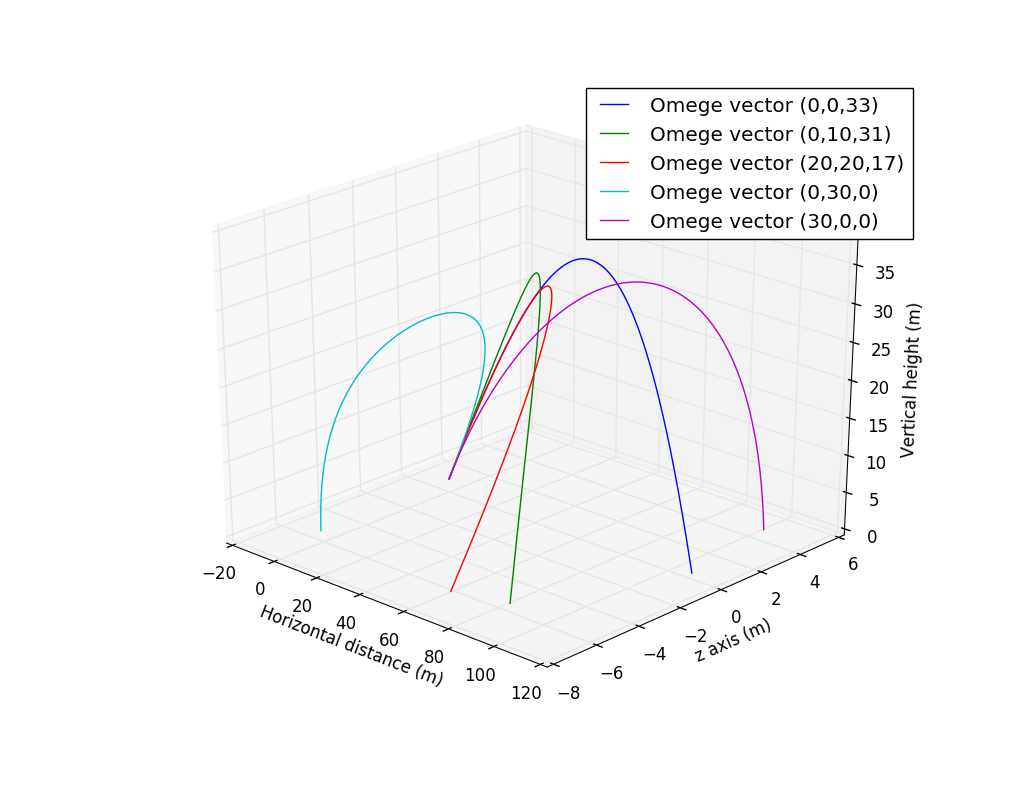
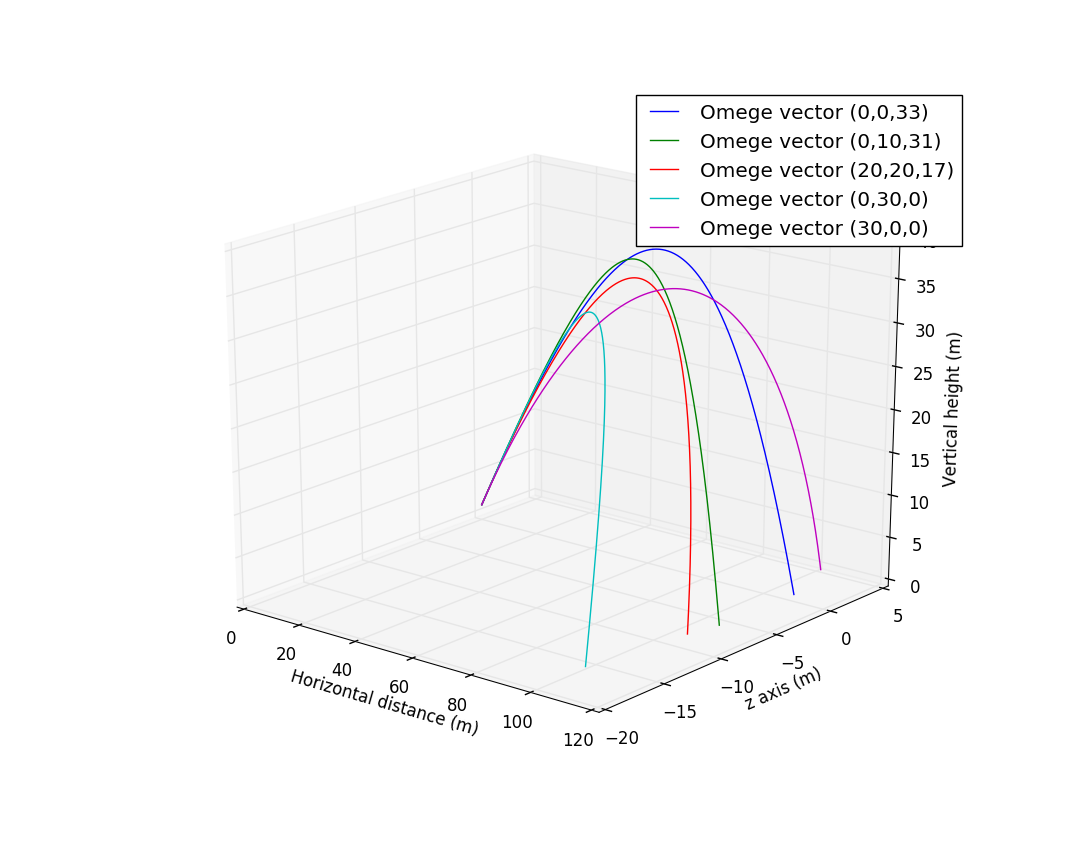
bug fix

diff --git a/Exercise/Chapter 2/chapter2_2.19.py b/Exercise/Chapter 2/chapter2_2.19.py
@@ -111,7 +111,7 @@ class baseball_fullspin(baseball_normal):
         while ( self.y[-1] >= self.y1 ):
             v = np.sqrt(vx[i - 1]**2+vy[i - 1]**2+vz[i - 1]**2)
             B = 0.0039 + 0.0058/(1 + np.e**((v - 35)/5))
-            vx.append(vx[i - 1] - B*self.dt*v*vx[i - 1] + 0.00041*(w_y*vz[i - 1] - w_z*vy[i - 1]*self.dt))
+            vx.append(vx[i - 1] - B*self.dt*v*vx[i - 1] + 0.00041*(w_y*vz[i - 1] - w_z*vy[i - 1])*self.dt)
             vy.append(vy[i - 1] - 9.8*self.dt - B*self.dt*v*vy[i - 1] +0.00041*(w_z*vx[i - 1] - w_x*vz[i - 1])*self.dt)
             vz.append(vz[i - 1] - B*self.dt*v*vz[i - 1] + 0.00041*(w_x*vy[i - 1] - w_y*vx[i - 1])*self.dt)
             self.x.append(self.x[i - 1] + 0.5*(vx[i - 1] + vx[i])*self.dt)
@@ -235,7 +235,7 @@ plt.title('Trajectory of cannon shell')
 plt.xlabel('Horizontal distance (m)', fontsize = 12)
 plt.ylabel('Vertical height (m)', fontsize = 12)
 ## ---------------- full spin ---------------------
-'''A = baseball_fullspin(100,40,33,1,0,0,0,0)
+A = baseball_fullspin(100,40,33,1,0,0,0,0)
 record_fullspin = A.calculate(0,0,33)
 ax = fig.gca(projection='3d')
 ax.set_xlabel('Horizontal distance (m)', fontsize = 12)
@@ -250,7 +250,7 @@ record_fullspin = A.calculate(0,30,0)
 ax.plot(record_fullspin[0],record_fullspin[2],record_fullspin[1], label = 'Omege vector (0,30,0)')
 record_fullspin = A.calculate(30,0,0)
 ax.plot(record_fullspin[0],record_fullspin[2],record_fullspin[1], label = 'Omege vector (30,0,0)')
-ax.legend()'''
+ax.legend()
 ## ---------------- normal -------------------------  
 '''A = baseball_normal(100, 40, 33, 1, 0, 0, 0, 0)
 record_normal = A.calculate()
@@ -329,7 +329,7 @@ plt.plot(record_wind[0], record_wind[1],'-.',linewidth = 3, label = 'No spin: he
 '''plt.legend(loc = 'upper right', fontsize = 9)
 plt.savefig('chapter2.19_ball.png', dpi = 144)'''
 ## -------------- argprase ------------------------------
-parser = argparse.ArgumentParser()
+'''parser = argparse.ArgumentParser()
 parser.add_argument("velocity", type = float, help= "display a square of a given number")
 parser.add_argument("theta", type = float, help= "the initial batting angle")
 parser.add_argument("omega", type = float, help = "the angular velocity of spin")
@@ -371,5 +371,5 @@ else:
 if args.store:
     A.store()
 else:
-    pass
+    pass'''
 
